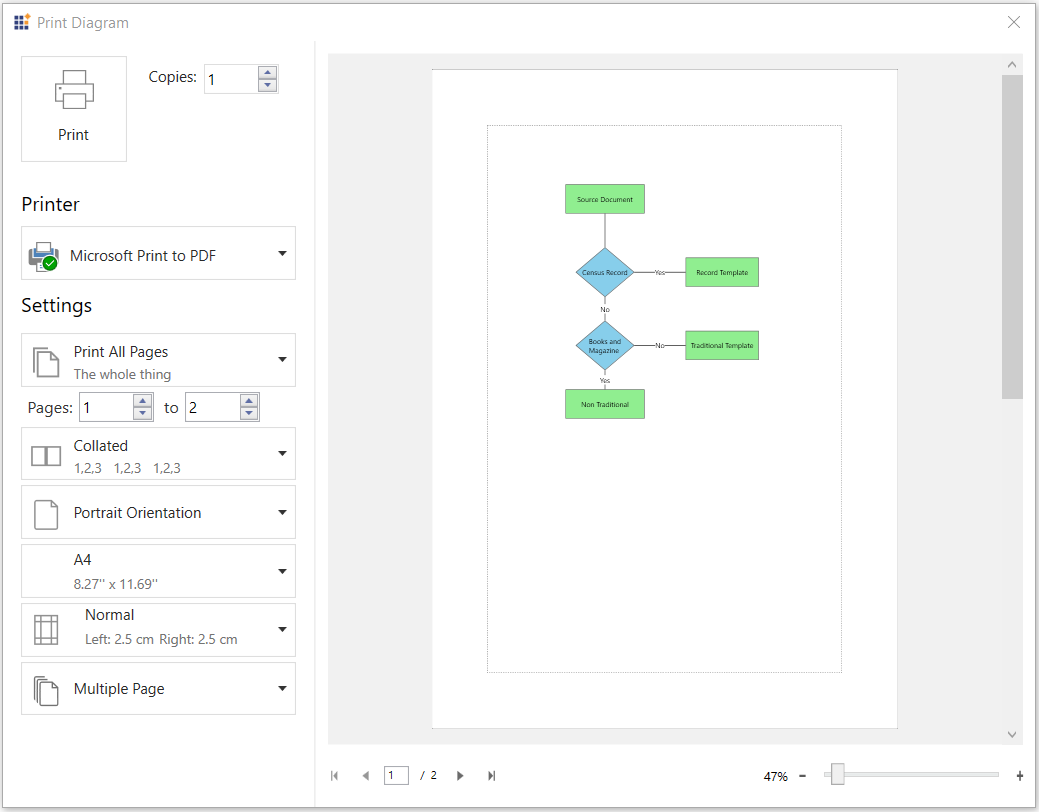
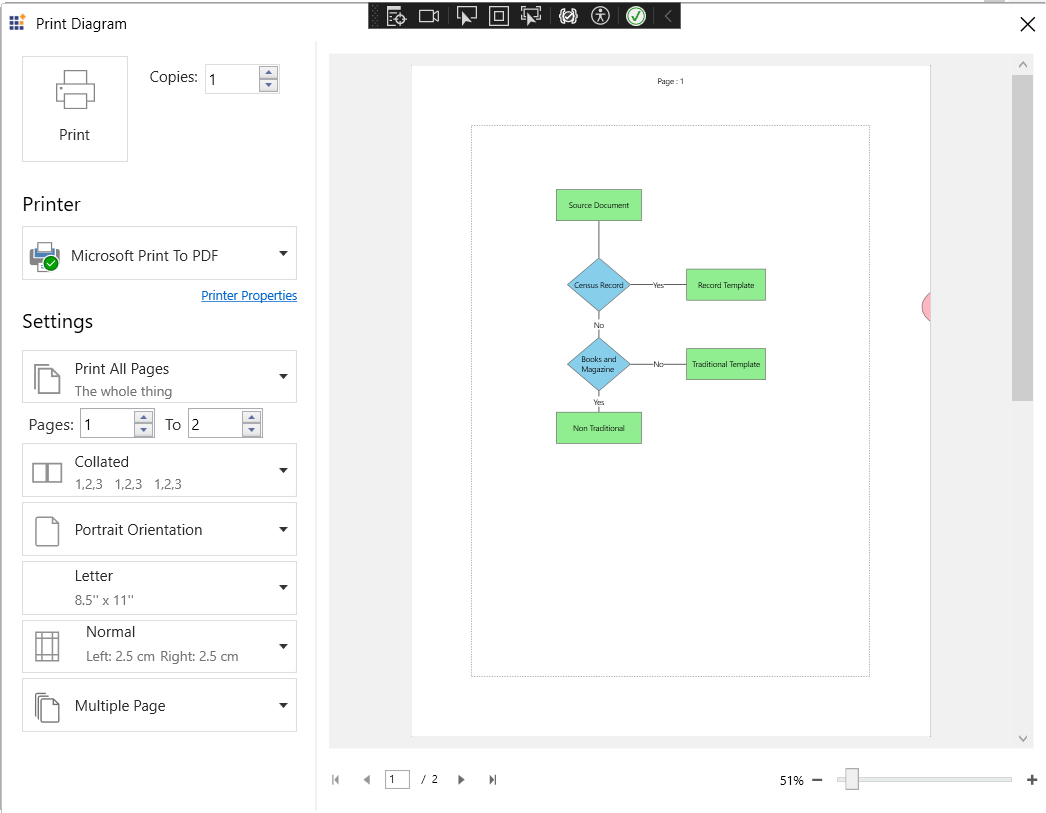
WPF-964172-Update printer Properties

diff --git a/wpf/Diagram/Printing.md b/wpf/Diagram/Printing.md
@@ -77,6 +77,17 @@ Printer section.
 
 ![Printer List in WPF Diagram](Printing_images/wpf-diagram-printer-list.png)
 
+#### Printer Properties
+
+The **Printer Properties** option allows you to configure advanced settings for the selected printer before printing the diagram. The available options may vary depending on the printer model and driver, but commonly include:
+
+- **Paper Size**: Select from supported paper sizes such as A4, Letter, Legal, etc.
+- **Orientation**: Choose between Portrait and Landscape.
+
+To access these settings, click the **Printer Properties** button in the Print Preview window after selecting your printer. This allows you to customize the print output according to your requirements.
+
+![Printer Properties in WPF Diagram](Printing_images/wpf-diagram-printer-properties.png)
+
 ### Scaling 
  SfDiagram provides support to scale the diagram whether to print as single page or split into multiple pages. Scaling options can be changed by setting the `PrintingService.PrintManager.SelectedScaleIndex`
 property. 
